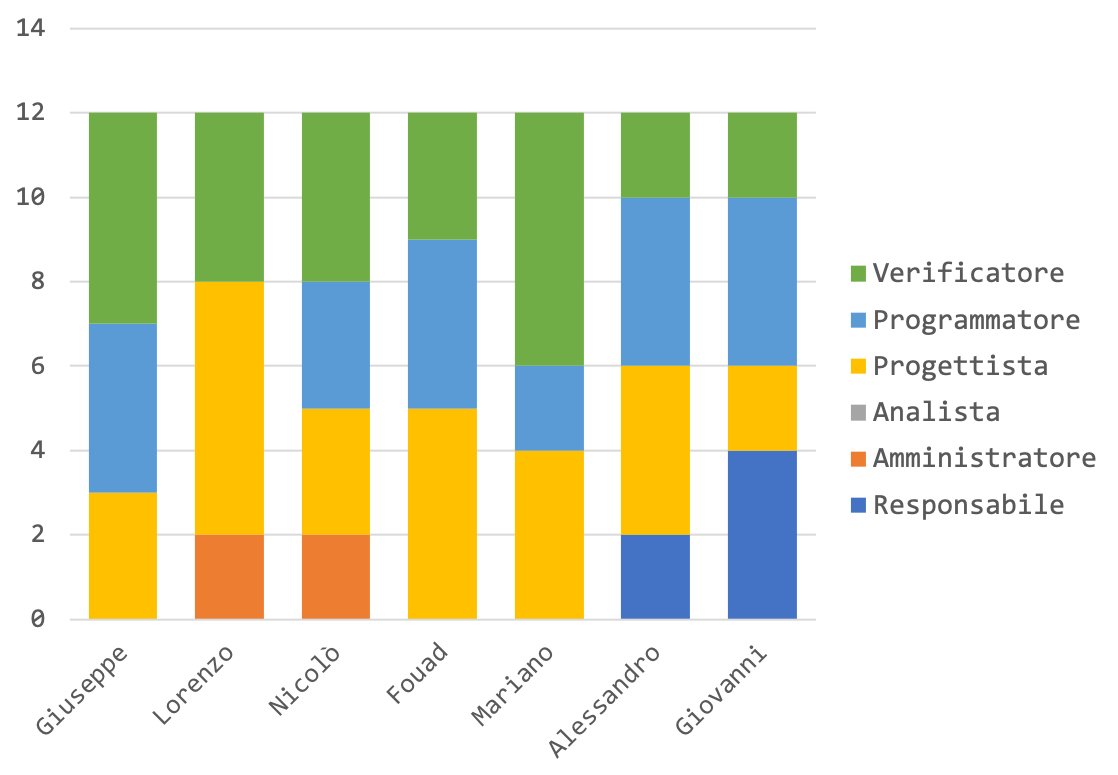
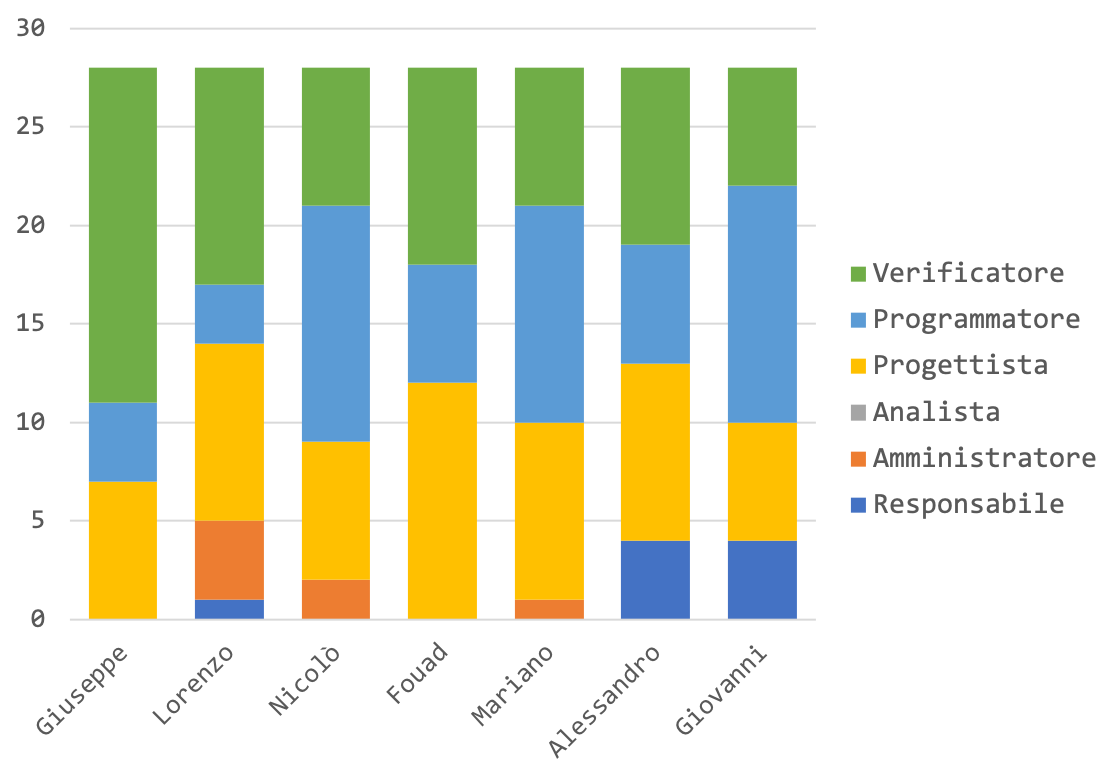
Grafici/tabelle incrementi 11-12 e fase validazione

diff --git a/esterni/piano_progetto/res/sections/Sez6-Consuntivo/Consuntivo.tex b/esterni/piano_progetto/res/sections/Sez6-Consuntivo/Consuntivo.tex
@@ -1574,10 +1574,210 @@
 			\newline
 			Considerando la tendenza positiva sperimentata fino a questo momento, il gruppo resta fiducioso per i prossimi due incrementi, nonostante siano più corposi e necessitino maggiori risorse temporali; di conseguenza il preventivo rimane in linea con quanto definito in \S5.
 		\pagebreak
+		
+		%========================================================%
+		
+		\subsubsection{Incremento XI}
+		Le ore di lavoro svolte in questo periodo sono volte all'implementazione completa delle \glock{API} e all'aggiunta di una nuova configurazione del \glock{gateway} con \glock{Kafka};
+		\paragraph{Prospetto orario}
+		Nella tabella in seguito viene illustrato il cambiamento nel numero d'ore di ogni persona, per ogni ruolo ricoperto:
+		
+		\rowcolors{2}{lightest-grayest}{white}
+		\begin{longtable}{|l|c|c|c|c|c|c|c|}
+			\hline
+			\rowcolor{lighter-grayer}
+			\textbf{Nome} & \textbf{Re} & \textbf{Am} & \textbf{An} & \textbf{Pg}  & \textbf{Pr}   & \textbf{Ve} & \textbf{Totale} \\
+			\hline
+			\endfirsthead
+			
+			\hline
+			Giuseppe Vito Bitetti 		 & 0 & 0 & 0 & 0 & 0 (-3) & 6 (+3 )& 6\\
+			\hline
+			\hline
+			Lorenzo Dei Negri			 & 0 & 2 & 0 & 0 & 3 & 1 & 6\\
+			\hline
+			\hline
+			Nicolò Frison				      & 0 & 0 & 0 & 0 & 6 (+3) & 0 (-3) & 6\\
+			\hline
+			\hline
+			Fouad Mouad 				   & 0 & 0 & 0 & 5 & 0 & 1 & 6\\
+			\hline
+			\hline
+			Mariano Sciacco 			 & 0 & 0 & 0 & 2 & 4 & 0 & 6\\
+			\hline
+			\hline
+			Alessandro Tommasin    & 2 & 0 & 0 & 2 & 0 & 2 & 6\\
+			\hline
+			\hline
+			Giovanni Vidotto 			  & 0 & 0 & 0 & 1 (+1) & 3 (-1) & 2 & 6\\
+			\hline 
+			\textbf{Totale}			 		& 2 & 2 & 0 & 10 (+1) & 16 (-1) & 12 & 42\\
+			\hline
+			\caption{Tabella consuntiva contenente il prospetto orario per l'undicesimo incremento}
+		\end{longtable}
+		
+		La tabella può essere riassunta nel seguente istogramma:
+		\begin{figure}[H]
+			\centering
+			\includegraphics[width=0.8\linewidth]{./images/consuntivo/ConsIncr11-1.png}
+			\caption{Diagramma consuntivo ore/ruolo componenti dell'incremento XI}
+			\label{fig:consuntivo diagramma suddivione ruoli incremento XI}
+		\end{figure}
+		\pagebreak
+		
+		\paragraph{Prospetto economico}
+		In base al prospetto orario, quello economico sarà il seguente: 
+		
+		\rowcolors{2}{white}{lightest-grayest}
+		\begin{longtable}{|l|c|c|c|c|c|c|c|}
+			\hline
+			\rowcolor{lighter-grayer}
+			\textbf{Ruolo} & \textbf{Ore} & \textbf{Costo in € } \\
+			\hline
+			\endfirsthead
+			
+			\hline
+			Responsabile 	    & 2 & 60,00\\
+			\hline 
+			\hline
+			Amministratore	   & 2 & 40,00\\
+			\hline
+			\hline
+			Analista 				& - & -\\
+			\hline
+			\hline
+			Progettista 		   & 10 & 220,00 (+22,00)\\
+			\hline
+			\hline
+			Programmatore 	  & 16 & 240,00 (-15,00)\\
+			\hline
+			\hline
+			Verificatore 		   & 16 & 240,00\\
+			\hline
+			\textbf{Totale} 	 & 42 & 740,00 (+7,00)\\
+			\hline
+			\caption{Tabella contenente il prospetto economico in riferimento al prospetto orario}
+		\end{longtable}
+
+		La tabella può essere riassunta nel seguente areogramma:
+		\begin{figure}[H]
+			\centering
+			\includegraphics[width=0.8\linewidth]{./images/consuntivo/ConsIncr11-2.png}
+			\caption{Diagramma percentuale ore/ruolo nell'incremento XI}
+			\label{fig:consuntivo diagramma costi ruolo incremento XI}
+		\end{figure}
+		
+		\paragraph{Conclusioni}
+		TO DO
+		
+		\paragraph{Preventivo a finire}
+		TO DO
+				
+		%==================================%
+		
+		\subsubsection{Incremento XII}
+		Le ore di lavoro svolte in questo periodo sono volte all'implementazione dell'invio di input con il \glock{bot Telegram} e alla parte amministratore della web app;
+		\paragraph{Prospetto orario}
+		Nella tabella in seguito viene illustrato il cambiamento nel numero d'ore di ogni persona, per ogni ruolo ricoperto:
+		
+		\rowcolors{2}{lightest-grayest}{white}
+		\begin{longtable}{|l|c|c|c|c|c|c|c|}
+			\hline
+			\rowcolor{lighter-grayer}
+			\textbf{Nome} & \textbf{Re} & \textbf{Am} & \textbf{An} & \textbf{Pg}  & \textbf{Pr}   & \textbf{Ve} & \textbf{Totale} \\
+			\hline
+			\endfirsthead
+			
+			\hline
+			Giuseppe Vito Bitetti 		 & 0 & 0 & 0 & 4 & 0 & 6 & 10\\
+			\hline
+			\hline
+			Lorenzo Dei Negri			 & 1 & 0 & 0 & 3 & 0 & 6 & 10\\
+			\hline
+			\hline
+			Nicolò Frison				      & 0 & 0 & 0 & 4 & 3 & 3 & 10\\
+			\hline
+			\hline
+			Fouad Mouad 				   & 0 & 0 & 0 & 2 & 2 (-3) & 6 (+3) & 10\\
+			\hline
+			\hline
+			Mariano Sciacco 			 & 0 & 1 & 0 & 3 & 5 (+3) & 1 (-3) & 10\\
+			\hline
+			\hline
+			Alessandro Tommasin    & 0 & 0 & 0 & 3 & 2 & 5 & 10\\
+			\hline
+			\hline
+			Giovanni Vidotto 			  & 0 & 0 & 0 & 3 & 5 (+2) & 2 (-2) & 10\\
+			\hline 
+			\textbf{Totale}			 		& 1 & 1 & 0 & 22 & 17 (+2) & 29 (-2) & 70\\
+			\hline
+			\caption{Tabella consuntiva contenente il prospetto orario per il dodicesimo incremento}
+		\end{longtable}
+		\pagebreak
+		
+		La tabella può essere riassunta nel seguente istogramma:
+		\begin{figure}[H]
+			\centering
+			\includegraphics[width=0.8\linewidth]{./images/consuntivo/ConsIncr12-1.png}
+			\caption{Diagramma consuntivo ore/ruolo componenti dell'incremento XII}
+			\label{fig:consuntivo diagramma suddivione ruoli incremento XII}
+		\end{figure}
+		
+		\paragraph{Prospetto economico}
+		In base al prospetto orario, quello economico sarà il seguente: 
+		
+		\rowcolors{2}{white}{lightest-grayest}
+		\begin{longtable}{|l|c|c|c|c|c|c|c|}
+			\hline
+			\rowcolor{lighter-grayer}
+			\textbf{Ruolo} & \textbf{Ore} & \textbf{Costo in € } \\
+			\hline
+			\endfirsthead
+			
+			\hline
+			Responsabile 	    & 1 & 30,00\\
+			\hline 
+			\hline
+			Amministratore	   & 1 & 20,00\\
+			\hline
+			\hline
+			Analista 				& - & - \\
+			\hline
+			\hline
+			Progettista 		   & 22 & 484,00\\
+			\hline
+			\hline
+			Programmatore 	  & 17 (+2) & 255,00 (+30,00)\\
+			\hline
+			\hline
+			Verificatore 		   & 29 (-2) & 435,00 (-30)\\
+			\hline
+			\textbf{Totale} 	 & 70 & 1224,00\\
+			\hline
+			\caption{Tabella contenente il prospetto economico in riferimento al prospetto orario}
+		\end{longtable}
+		\pagebreak
+		La tabella può essere riassunta nel seguente areogramma:
+		\begin{figure}[H]
+			\centering
+			\includegraphics[width=0.8\linewidth]{./images/consuntivo/ConsIncr12-2.png}
+			\caption{Diagramma percentuale ore/ruolo nell'ncremento XII}
+			\label{fig:consuntivo diagramma costi ruolo incremento XII}
+		\end{figure}
+		
+		\paragraph{Conclusioni}
+		TO DO
+		
+		\paragraph{Preventivo a finire}
+		TO DO
+		\pagebreak
+		
+		%===================================%
+		
 		\subsubsection{Fase complessiva}
 		
 		\paragraph{Riepilogo prospetto orario}
-			Ad ora sono stati svolti solo i primi due incrementi e la distribuzione oraria consuntiva dei ruoli di ogni componente del gruppo può essere riassunta nella seguente tabella:
+		Dal nono al dodicesimo incremento la distribuzione oraria consuntiva dei ruoli di ogni componente del gruppo può essere riassunta nella seguente tabella:
 			
 			\rowcolors{2}{lightest-grayest}{white}
 			\begin{longtable}{|l|c|c|c|c|c|c|c|}
@@ -1665,12 +1865,118 @@
 			\end{figure}
 		\pagebreak
 		\paragraph{Preventivo a finire}
-			Al momento sono stati portati a termine solamente i primi due incrementi pianificati per questa fase, quindi le considerazioni sull'andamento dello sviluppo ed il preventivo a finire sono da considerarsi parziali.
-			\newline
-			Durante questi primi due incrementi la velocità di sviluppo e le risorse impiegate sono rimaste in linea con quanto preventivato, segno di una maggior maturità e consapevolezza delle proprie capacità da parte del gruppo.
-			\newline
-			I due incrementi rimasti sono quelli più lunghi e corposi, quindi necessiteranno una maggior attenzione da parte di ciascun componente; tuttavia, essendo attualmente in positivo, per quanto riguarda i costi, e contando sull'esperienza acquisita, il gruppo ritiene di poter rispettare il preventivo definito in \S5, senza dover apportare alcuna modifica.
+			TO DO
 	
+		%=================================================================%
+		
+		
+		\subsection{Fase di validazione e collaudo}
+		\subsubsection{Prospetto orario}
+		Le ore di lavoro svolte in questo periodo sono volte alle seguenti attività:
+		\begin{itemize}
+			\item revisione ed eventuale aggiornamento delle norme;
+			\item aggiornamento della pianificazione;
+			\item aggiornamento della qualità;
+			\item rilascio ultima versione;
+			\item completamento manuali;
+			\item controllo della qualità di tutti i prodotti sviluppati durante il periodo attuale, in particolare sono eseguiti i test per la verifica del software.
+		\end{itemize}
+		\paragraph{Prospetto orario}
+		Nella tabella in seguito viene illustrato il cambiamento nel numero d'ore di ogni persona, per ogni ruolo ricoperto:
+		
+		\rowcolors{2}{lightest-grayest}{white}
+		\begin{longtable}{|l|c|c|c|c|c|c|c|}
+			\hline
+			\rowcolor{lighter-grayer}
+			\textbf{Nome} & \textbf{Re} & \textbf{Am} & \textbf{An} & \textbf{Pg}  & \textbf{Pr}   & \textbf{Ve} & \textbf{Totale} \\
+			\hline
+			\endfirsthead
+			
+			\hline
+			Giuseppe Vito Bitetti 		 & 0 & 3 & 2 & 0 & 3 (-1) & 7 (+1) & 15\\
+			\hline
+			\hline
+			Lorenzo Dei Negri			 & 5 & 0 & 0 & 3 & 2 (-3) & 5 (+3) & 15\\
+			\hline
+			\hline
+			Nicolò Frison				      & 0 & 4 & 4 & 1 & 2 & 4 & 15\\
+			\hline
+			\hline
+			Fouad Mouad 				   & 5 & 0 & 2 & 0 & 0 & 8 & 15\\
+			\hline
+			\hline
+			Mariano Sciacco 			 & 0 & 5 (-1) & 2 & 2 & 5 & 1 (+1) & 15\\
+			\hline
+			\hline
+			Alessandro Tommasin    & 5 & 0 & 3 (-1) & 3 (-1) & 0 & 5 (+2) & 15\\
+			\hline
+			\hline
+			Giovanni Vidotto 			  & 0 & 6 & 3 & 2 & 2 & 2 & 15\\
+			\hline 
+			\textbf{Totale}			 	& 15 & 18 (-1) & 16 & 11 (-1) & 14 (-4) & 61 (+6) & 105\\
+			\hline
+			\caption{Tabella contenente il prospetto orario preventivato per la fase di validazione e collaudo}
+		\end{longtable}
+		\pagebreak
+		
+		La tabella può essere riassunta nel seguente istogramma:
+		\begin{figure}[H]
+			\centering
+			\includegraphics[width=0.8\linewidth]{./images/consuntivo/validCollCons1.png}
+			\caption{Diagramma ore/ruolo componenti nella fase di validazione e collaudo}
+			\label{fig:diagramma suddivione ruoli fase di validazione e collaudo}
+		\end{figure}
+
+		\subsubsection{Prospetto economico}
+		In base al prospetto orario, quello economico sarà il seguente: 
+		
+		\rowcolors{2}{white}{lightest-grayest}
+		\begin{longtable}{|l|c|c|c|c|c|c|c|}
+			\hline
+			\rowcolor{lighter-grayer}
+			\textbf{Ruolo} & \textbf{Ore} & \textbf{Costo in € } \\
+			\hline
+			\endfirsthead
+			
+			\hline
+			Responsabile 	    & 16 (+1) & 480,00 (+30,00)\\
+			\hline 
+			\hline
+			Amministratore	   & 17 (-2) & 340,00 (-40,00)\\
+			\hline
+			\hline
+			Analista 				& 16 & 400,00\\
+			\hline
+			\hline
+			Progettista 		   & 11 (-1) & 242,00 (-22,00)\\
+			\hline
+			\hline
+			Programmatore 	  & 14 (-4) & 210,00 (-60,00)\\
+			\hline
+			\hline
+			Verificatore 		   & 31 (+6) & 465,00 (+90,00)\\
+			\hline
+			\textbf{Totale} 	 & 105 & 2.137,00 (-2,00)\\
+			\hline
+			\caption{Tabella contenente il prospetto economico in riferimento al prospetto orario}
+		\end{longtable}
+		\pagebreak
+		
+		La tabella può essere riassunta nel seguente areogramma:
+		\begin{figure}[H]
+			\centering
+			\includegraphics[width=0.8\linewidth]{./images/consuntivo/validCollCons2.png}
+			\caption{Diagramma percentuale ore/ruolo della fase di validazione e collaudo}
+			\label{fig:diagramma costi ruolo fase di validazione e collaudo}
+		\end{figure}	
+		
+		\paragraph{Conclusioni}
+		TO DO
+		
+		\paragraph{Preventivo a finire}
+		TO DO
+		\pagebreak
+		
 		%=================================================================%
 		
 	 	\subsection{Tabella riassuntiva del preventivo a finire}
@@ -1722,10 +2028,19 @@
 			 	\hline
 			 	Incremento X & 782,00 & 782,00 & -\\
 			 	\hline
-			 	\textbf{Totale rendicontato} & 13.786,00 & 13.771,00 & -15,00\\
+			 	\hline
+			 	Incremento XI & 740,00 & 747,00 & +7\\
 			 	\hline
 			 	\hline
-			 	\textbf{Totale} & 18.946,00 & 18.916,00 & -30,00\\
+			 	Incremento XII & 1.224,00 & 1224,00 & -\\
+			 	\hline
+		 		\hline
+			 	Validazione e collaudo & 2.139,00 & 2137,00 & -2,00\\
+			 	\hline
+			 	\textbf{Totale rendicontato} & 13.786,00 & 13.776,00 & -10,00\\
+			 	\hline
+			 	\hline
+			 	\textbf{Totale} & 18.946,00 & 18.921,00 & -25,00\\
 			 	\hline
 			 	\caption{Tabella contenente il preventivo a finire}
 			 \end{longtable}
